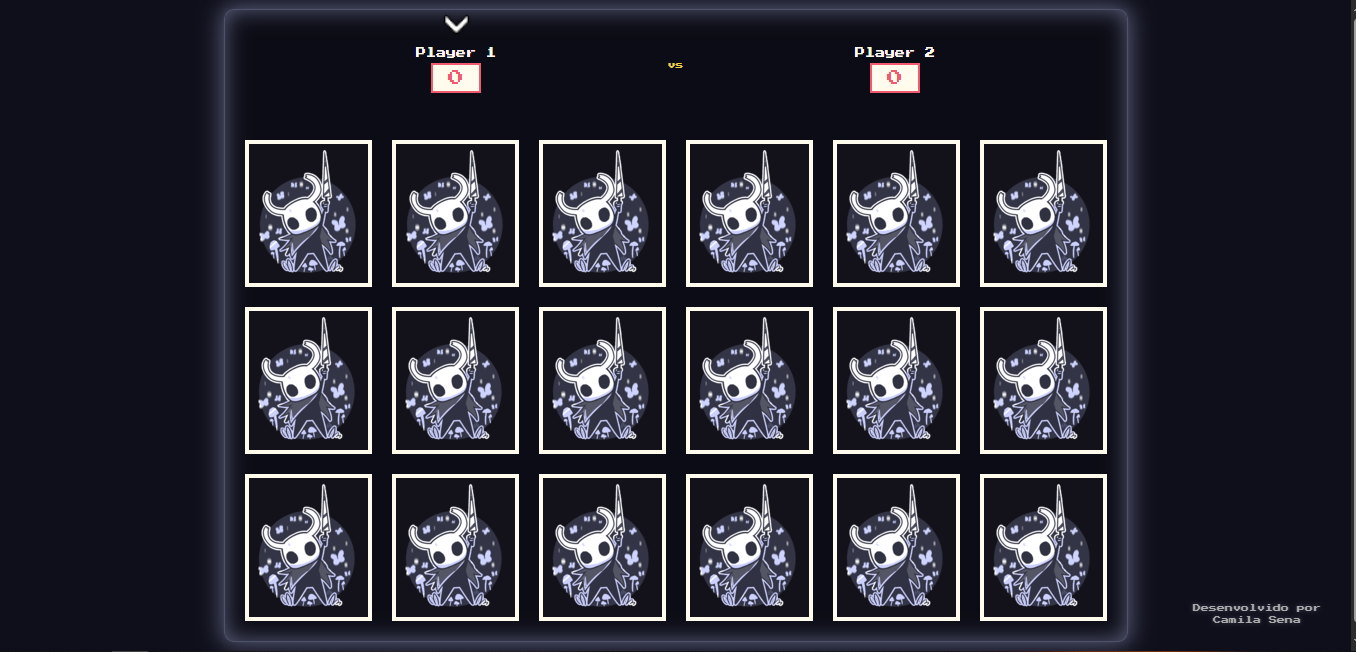
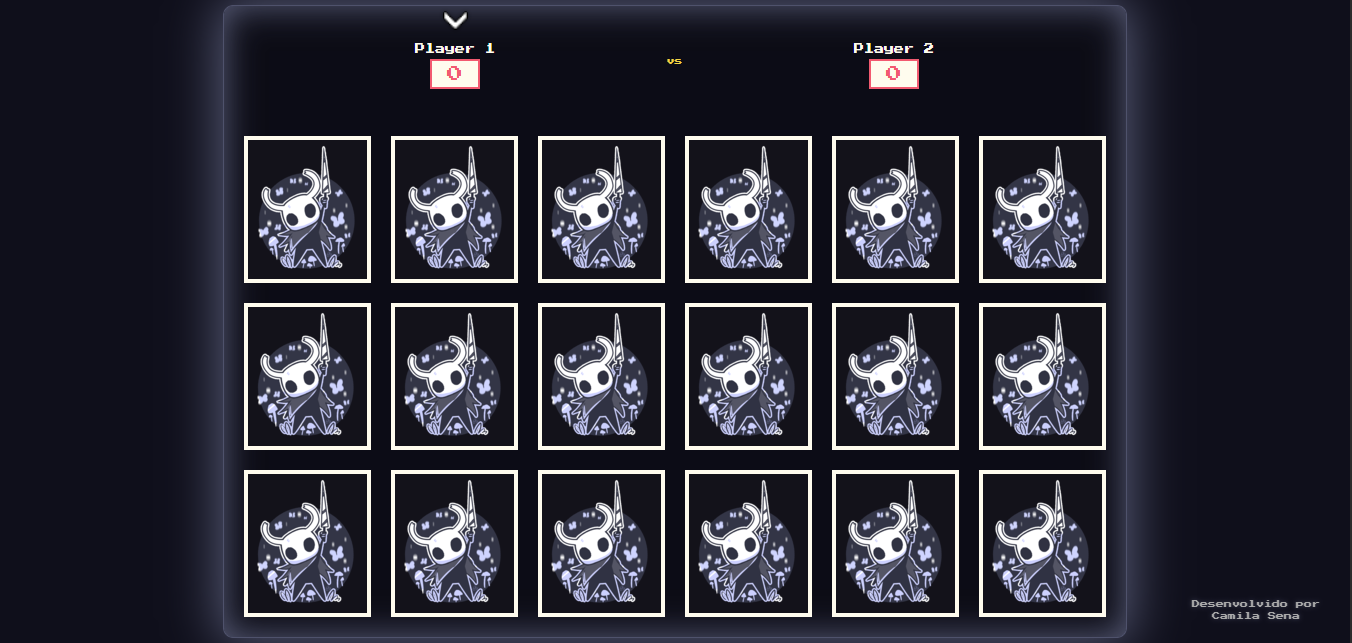
atualiza imagem de pré-visualização do componente

diff --git a/README.md b/README.md
@@ -2,7 +2,7 @@
 
 Um jogo da memória temático baseado no universo de Hollow Knight - um dos jogos indie mais aclamados de todos os tempos.
 
-![Hollow Knight Matching Game](src/components/images/preview.PNG)
+![Hollow Knight Matching Game](src/components/images/preview.png)
 
 ## 📖 Sobre o Projeto
 
